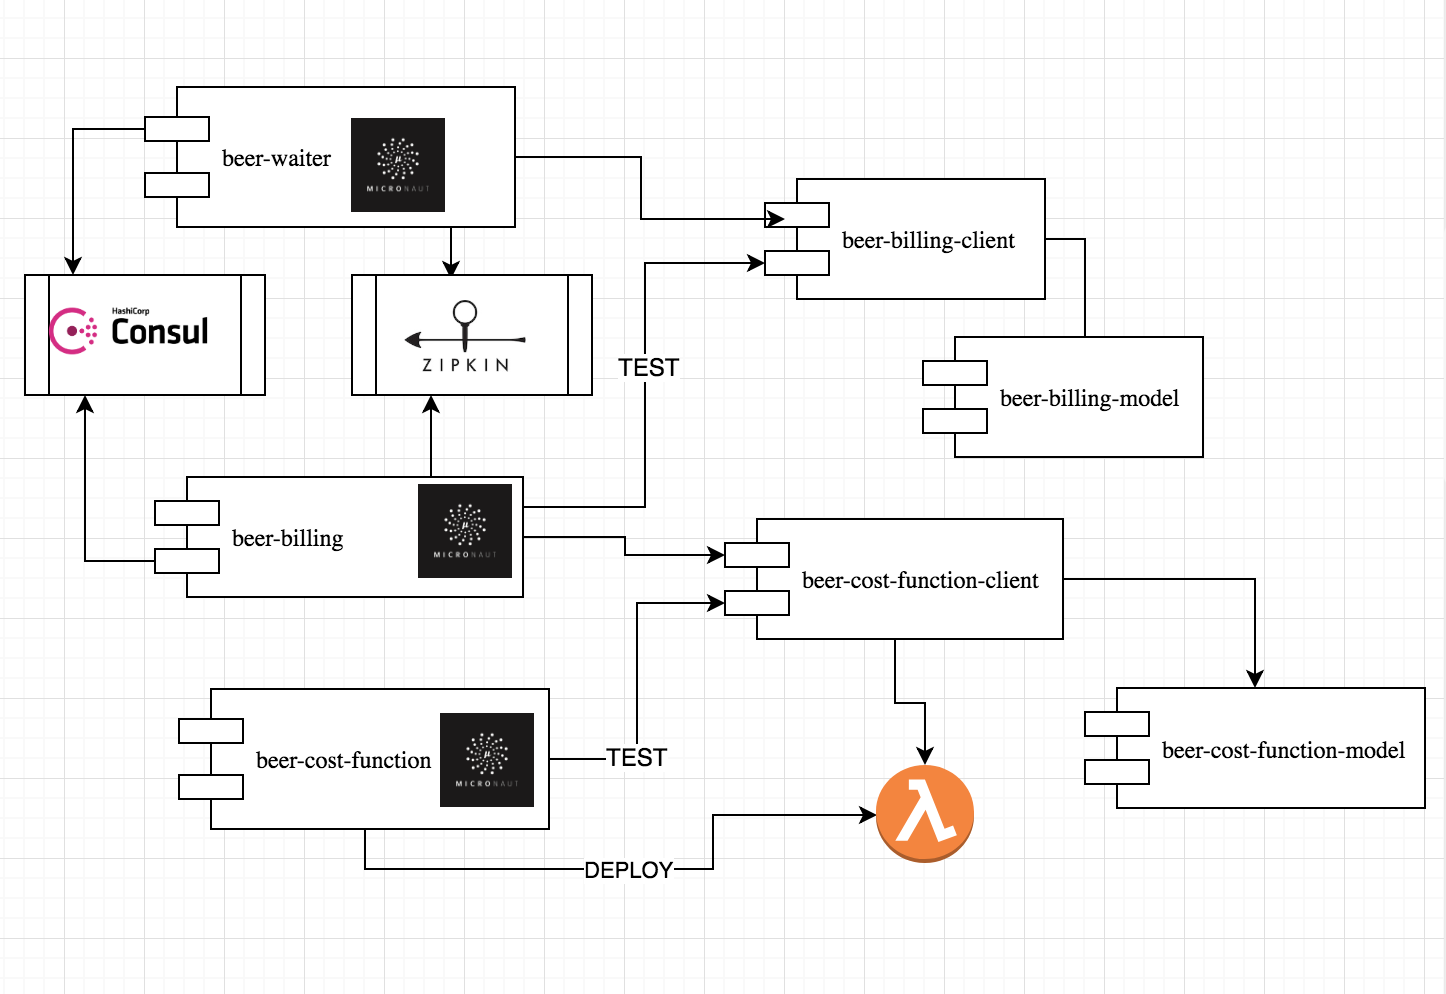
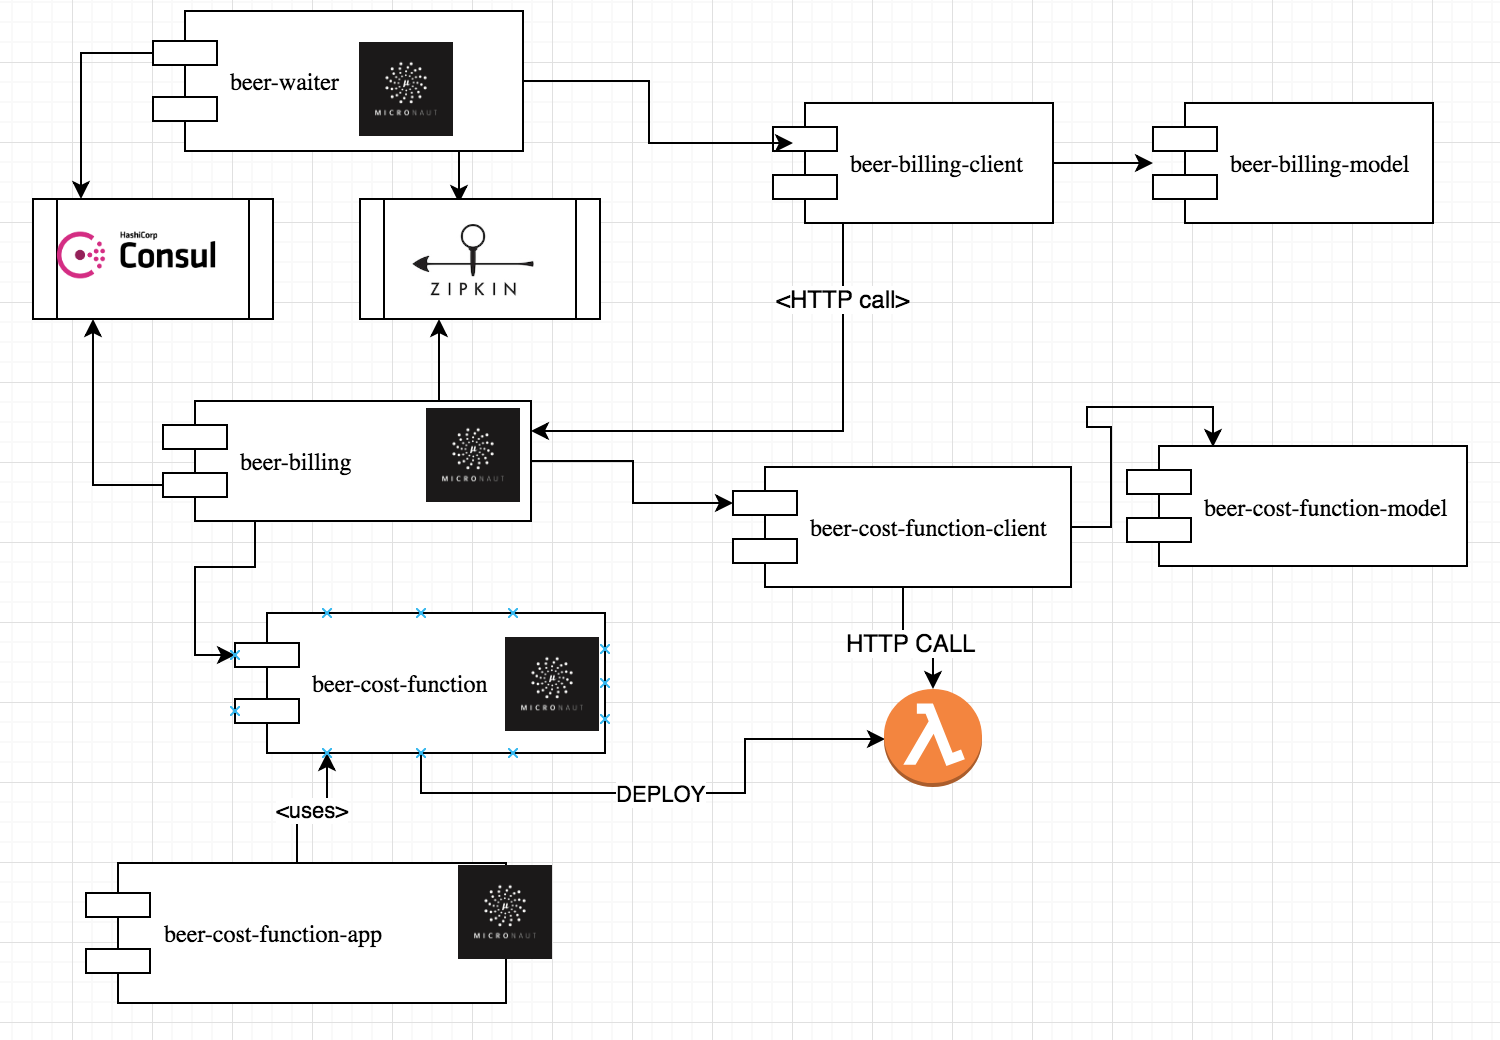
added micronaut function article

diff --git a/_posts/2018-10-28-Micronaut-Functions.md b/_posts/2018-10-28-Micronaut-Functions.md
@@ -53,20 +53,20 @@ The Micronaut guys at Gitter channel were helpful as usual and more specifically
 Eventually everythig was releated to the maven-shade-plugin and how the ResourceTransformer class duplicated jar entries due to transitive dependencies.
 He also highlighted that if waiter depended fully on billing jar, I was exposing the billing endpoints through my waiter microservice! i.e our user could go to the till without even asking our poor waiter.
 
-So I had to refactor the dependencies so is a cleaner architecture. Basically added a couple of modules. One containing only the @Client interface and the @Fallback so they could be used both by the unit test and by our waiter. I also shared the model across projects.
+So I had to refactor the dependencies so is a cleaner architecture. Basically added a couple of modules. One containing only the *@Client* interface and the *@Fallback* so they could be used both by the unit test and by our waiter. I also shared the model across projects.
 
 + billing > billing-client (for unit testing) > model
 + waiter > billing-client > model.
 
 # Creating a function archetype with Micronaut
 
-We will create a new project to declare our function so it has its own release cycle and can be changed independently from the other microservices. Let's imagin that the cost will be based on a simple formula based on brand name, applying a multiplying factor when we deal with pints of beer, so they will
+We will create a new project to declare our function so it has its own release cycle and can be changed independently from the other microservices. Let's imagine that the cost will be based on a simple formula based on brand name, applying a multiplying factor when we deal with pints of beer, so they will
 be more expensive.
 
-I created a new project "beer-cost-function" from the scratch using the Micronaut client 
+I created a new project "beer-cost-function-app" from the scratch using the Micronaut client 
 
 ```bash
-$ mn create-function beer-cost-function
+$ mn create-function beer-cost-function-app
 ```
 
 Although I could use the gradle build, I'm more a maven guy so I mavenized the project using as reference my pom files from beer-billing and beer-waiter. 
@@ -86,8 +86,14 @@ The interesting bits in your pom to enable functions are these 2 dependencies
 			<version>${micronaut.version}</version>
 			<scope>compile</scope>
 		</dependency>
-    </dependency>
 ```
+
+I splitted responsabilities across different projects: 
+
++ client (beer-cost-function-client)
++ model(beer-cost-function-model) 
++ server(beer-cost-function-app) 
+
 
 # Moving to Micronaut Functions
 
@@ -181,6 +187,23 @@ public interface ClientCostCalculator {
 }
 ```
 
+This is the simplest client to our function. 
+
+If we think in AWS Lambda we still may take benefit on some of Micronaut features. We will see later while testing how Lambda execution can take a while to warm up... so is never a bad idea to make our client calls more robuts with a retry policy.
+
+And improved version (ideally configurable externally) could be 
+
+```
+@FunctionClient
+public interface ClientCostCalculator {
+	 @Named("beer-cost")
+     @Retryable(attempts = "3", delay = "2s") 
+	 public Single<TicketCostResponse> apply(@Body TicketCostRequest ticketCostRequest) ;
+}
+```
+
+Our Function test is again straight forward:
+
 ```java
 public class ClientCostCalculatorTest {
 	
@@ -197,15 +220,15 @@ public class ClientCostCalculatorTest {
 }
 ```
 
-
-One IMPORTANT warning to readers trying to implement their own Micronaut functions using POJO objects. 
+One very important warning for those like me who dare to implement their own Micronaut functions using Inmutable POJO objects. 
 
 I scratched my head for a long time till I found the source of weird behaviour when working with inmutable POJOS, i.e without setters and always prefering usage of constructors with parameters. 
 
 So there are two possible approaches. 
+
 + The initial one was kind-of-obviuos, just adding default constructor both in your request (TicketCostRequest) and response (TicketCostRequest) objects. Once added the test worked like a charm.
 
-+ However again using the Gitter channel Graeme was helpful reminding me that in case I want to use Inmutable objects we need to add  @JsonCreator to map the constructor. So eventually I opted by that approach. See an example below on how my Request POJO looks like.
++ Graeme Rocher was helpful as usual in the Gitter channel, kudos to you! . He reminded me that in case I want to use Inmutable objects we need to add  @JsonCreator to map the constructor. So eventually I opted by that approach. See an example below on how my Request POJO looks like.
 
 ```java
 public class TicketCostRequest implements Serializable {
@@ -279,7 +302,7 @@ We are already generating a shadow jar using maven-shade-plugin (see pom.xml)
 
 ```bash
 $ mvn package
-#Generate shaded jar at $HOME/micronaut-ms/beer-cost-function/target/cost-0.0.1-SNAPSHOT-shaded.jar
+#Generate shaded jar at $HOME/micronaut-ms/beer-cost-function-app/target/cost-app-0.0.1-SNAPSHOT-shaded.jar
 ```
 
 ## Configure your lambda
@@ -292,7 +315,7 @@ Just create a new function with a name "beer-cost" with Java 8 runtime and creat
 
 
 
-Just upload the file $HOME/micronaut-ms/beer-cost-function/target/cost-0.0.1-SNAPSHOT-shaded.jar and add as Handler the following value: io.micronaut.function.aws.MicronautRequestStreamHandler
+Just upload the file $HOME/micronaut-ms/beer-cost-function-app/target/cost-app-0.0.1-SNAPSHOT-shaded.jar and add as Handler the following value: io.micronaut.function.aws.MicronautRequestStreamHandler
 
 ## Configure a test event
 
